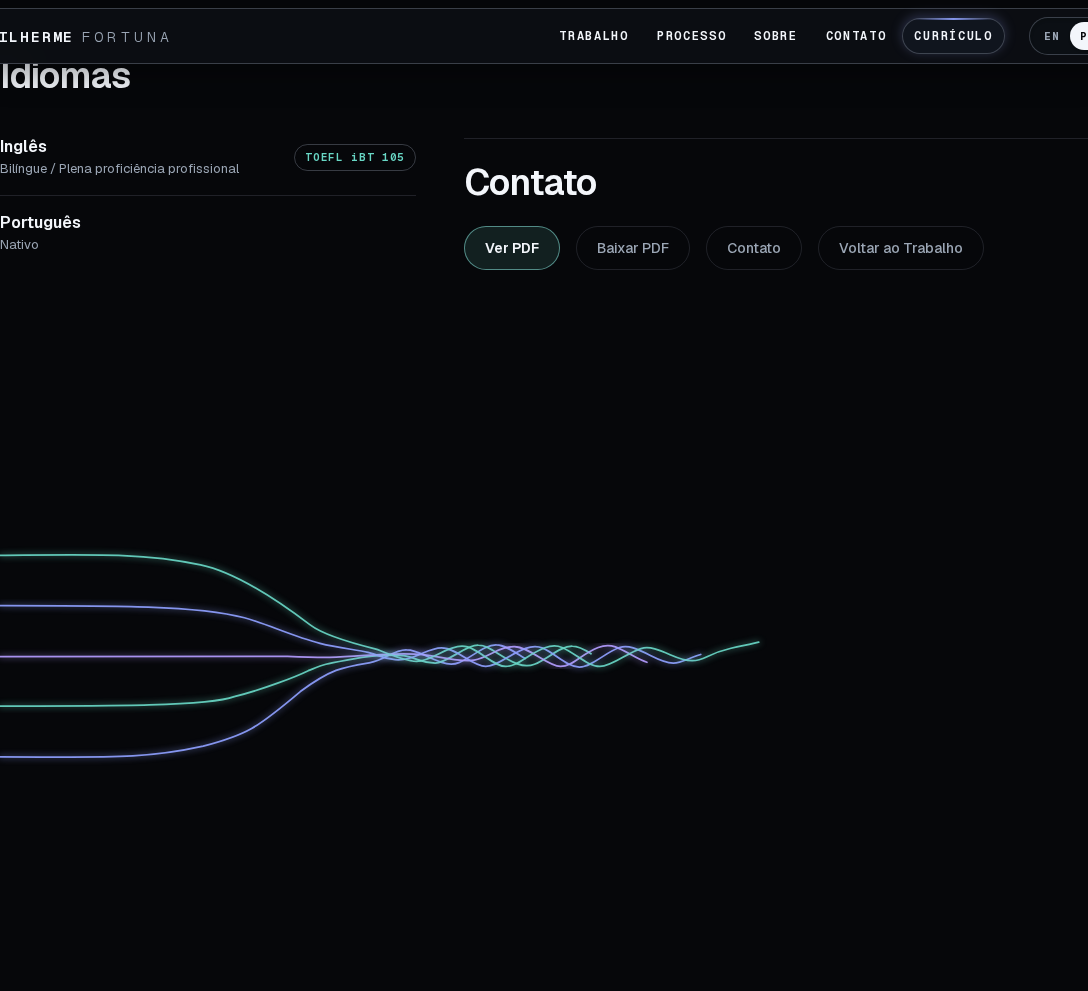
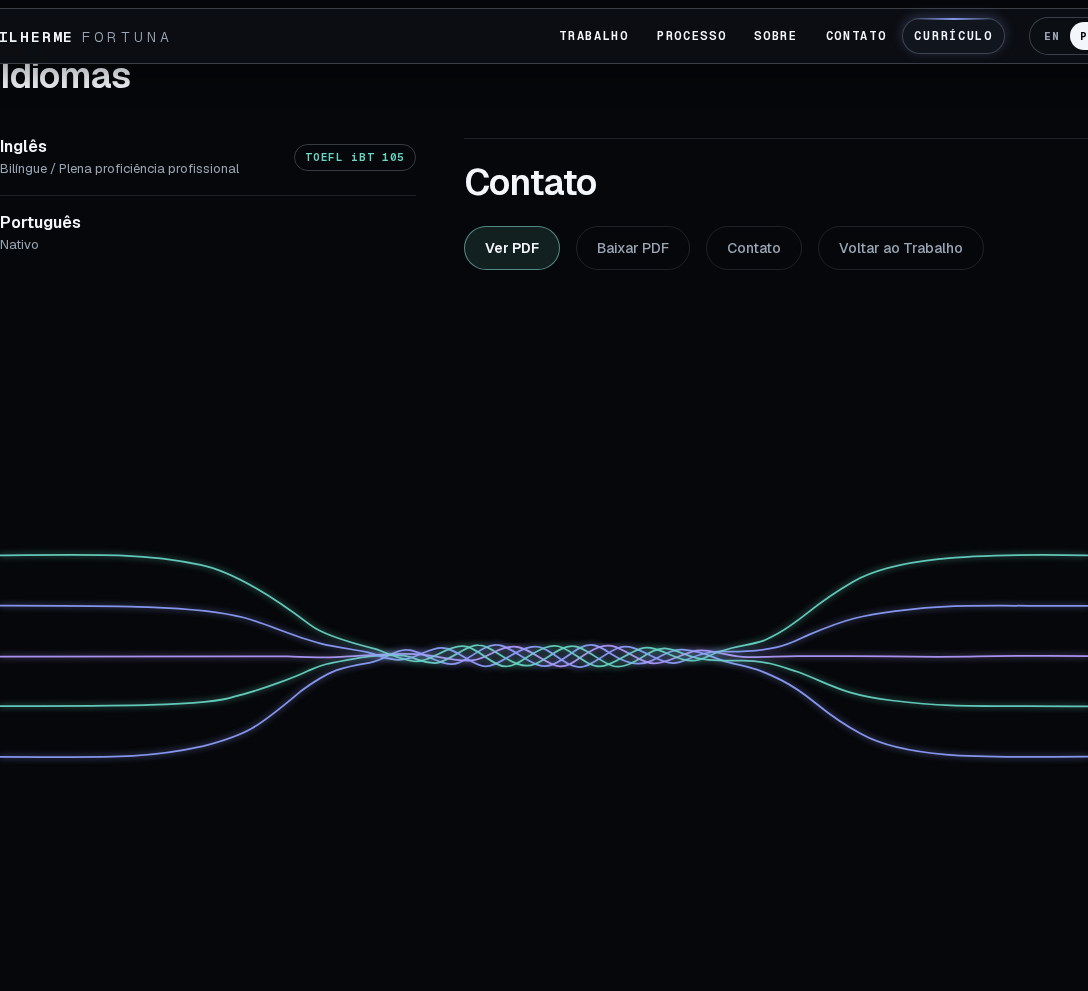
fix(resume): adjust gemini convergence scroll offset for all screen dimensions (WO-055)

diff --git a/src/components/resume/__tests__/resume-convergence.test.tsx b/src/components/resume/__tests__/resume-convergence.test.tsx
@@ -3,6 +3,7 @@ import { motionValue } from "motion/react";
 import { beforeEach, describe, expect, it, vi } from "vitest";
 
 import {
+  CONVERGENCE_SCROLL_OFFSET,
   parseLanguage,
   PATH_RANGES,
   ResumeConvergence,
@@ -283,6 +284,9 @@ describe("ResumeConvergence", () => {
     for (const [, end] of PATH_RANGES) {
       expect(end).toBe(0.8);
     }
+
+    // Scroll offset binds from element entry to complete element in-view across all screen dimensions
+    expect(CONVERGENCE_SCROLL_OFFSET).toEqual(["start end", "end end"]);
   });
 
   it.each(["en", "pt-BR"] as const)(

diff --git a/src/components/resume/resume-convergence.tsx b/src/components/resume/resume-convergence.tsx
@@ -97,11 +97,16 @@ function ConvergencePath({
   );
 }
 
+export const CONVERGENCE_SCROLL_OFFSET: ["start end", "end end"] = [
+  "start end",
+  "end end",
+];
+
 function EnhancedConvergencePaths(): ReactNode {
   const targetRef = useRef<HTMLDivElement>(null);
   const { scrollYProgress } = useScroll({
     target: targetRef,
-    offset: ["start 85%", "end 30%"],
+    offset: CONVERGENCE_SCROLL_OFFSET,
   });
 
   return (
